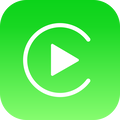
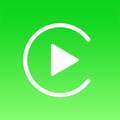
opt code

diff --git a/app/src/main/kotlin/com/carlink/util/IconAssets.kt b/app/src/main/kotlin/com/carlink/util/IconAssets.kt
@@ -3,6 +3,10 @@ package com.carlink.util
 import android.content.Context
 import android.graphics.Bitmap
 import android.graphics.BitmapFactory
+import android.graphics.Canvas
+import android.graphics.LinearGradient
+import android.graphics.Paint
+import android.graphics.Shader
 import androidx.core.graphics.scale
 import com.carlink.logging.logWarn
 import java.io.ByteArrayOutputStream
@@ -36,6 +40,7 @@ object IconAssets {
     private const val ICON_120_ASSET = "ICON_120x120.png"
     private const val ICON_180_ASSET = "ICON_180x180.png"
     private const val ICON_256_ASSET = "ICON_256x256.png"
+    private const val MAX_DECODE_DIMENSION = 2048
 
     /**
      * Load icon data from the user's custom image or the bundled assets.
@@ -86,7 +91,25 @@ object IconAssets {
 
     /** Center-crops non-square uploads, then creates one square master for all adapter sizes. */
     private fun resizeCustomIcon(data: ByteArray): Bitmap? {
-        val decoded = BitmapFactory.decodeByteArray(data, 0, data.size) ?: return null
+        val bounds = BitmapFactory.Options().apply { inJustDecodeBounds = true }
+        BitmapFactory.decodeByteArray(data, 0, data.size, bounds)
+        if (bounds.outWidth <= 0 || bounds.outHeight <= 0) return null
+
+        // Decode large picker selections at a power-of-two sample. The final adapter master is
+        // only 256px, so retaining source dimensions above 2048px wastes memory and can trigger
+        // an OOM on AAOS devices with a constrained app heap.
+        var sampleSize = 1
+        val largestDimension = maxOf(bounds.outWidth, bounds.outHeight)
+        while (largestDimension / sampleSize > MAX_DECODE_DIMENSION) sampleSize *= 2
+        val decoded = BitmapFactory.decodeByteArray(
+            data,
+            0,
+            data.size,
+            BitmapFactory.Options().apply {
+                inSampleSize = sampleSize
+                inPreferredConfig = Bitmap.Config.ARGB_8888
+            },
+        ) ?: return null
         val side = minOf(decoded.width, decoded.height)
         if (side <= 0) {
             decoded.recycle()
@@ -103,9 +126,58 @@ object IconAssets {
                 side,
             ).also { decoded.recycle() }
         }
-        return cropped.scale(256, 256).also {
-            if (it !== cropped) cropped.recycle()
+        // Composite before resizing. Transparent pixels in PNGs often retain a white RGB
+        // matte even though their alpha is zero; resizing such a bitmap first can blend that
+        // matte into the rounded edge and produce a visible white halo on the car display.
+        val opaque = makeOpaque(cropped)
+        val scaled = opaque.scale(256, 256).also {
+            if (it !== opaque) opaque.recycle()
         }
+        return scaled
+    }
+
+    /**
+     * CarPlay composites transparent icon pixels against a white tile background. Fill the
+     * transparent area with a vertical gradient sampled from the source so rounded-corner
+     * artwork remains full-bleed while retaining its original visual palette.
+     */
+    private fun makeOpaque(bitmap: Bitmap): Bitmap {
+        val output = Bitmap.createBitmap(bitmap.width, bitmap.height, Bitmap.Config.ARGB_8888)
+        output.setHasAlpha(false)
+        val canvas = Canvas(output)
+        val topColor = sampleOpaqueColor(bitmap, fromTop = true)
+        val bottomColor = sampleOpaqueColor(bitmap, fromTop = false)
+        val backgroundPaint = Paint(Paint.ANTI_ALIAS_FLAG).apply {
+            shader = LinearGradient(
+                0f,
+                0f,
+                0f,
+                bitmap.height.toFloat(),
+                topColor,
+                bottomColor,
+                Shader.TileMode.CLAMP,
+            )
+        }
+        canvas.drawRect(0f, 0f, bitmap.width.toFloat(), bitmap.height.toFloat(), backgroundPaint)
+        canvas.drawBitmap(bitmap, 0f, 0f, Paint(Paint.ANTI_ALIAS_FLAG or Paint.FILTER_BITMAP_FLAG))
+        bitmap.recycle()
+        return output
+    }
+
+    private fun sampleOpaqueColor(bitmap: Bitmap, fromTop: Boolean): Int {
+        val yRange = if (fromTop) 0 until bitmap.height else (bitmap.height - 1 downTo 0)
+        val centerX = bitmap.width / 2
+        for (y in yRange) {
+            for (distance in 0..centerX) {
+                val left = (centerX - distance).coerceAtLeast(0)
+                val right = (centerX + distance).coerceAtMost(bitmap.width - 1)
+                val leftColor = bitmap.getPixel(left, y)
+                if (android.graphics.Color.alpha(leftColor) > 0) return leftColor or 0xFF000000.toInt()
+                val rightColor = bitmap.getPixel(right, y)
+                if (android.graphics.Color.alpha(rightColor) > 0) return rightColor or 0xFF000000.toInt()
+            }
+        }
+        return 0xFF202124.toInt()
     }
 
     private fun encodePng(master: Bitmap, size: Int): ByteArray {

diff --git a/app/src/main/kotlin/com/carlink/protocol/MessageSerializer.kt b/app/src/main/kotlin/com/carlink/protocol/MessageSerializer.kt
@@ -293,6 +293,39 @@ object MessageSerializer {
     }
 
     /**
+     * Select the icon source used by the adapter's CarPlay session.
+     *
+     * This is a dedicated 0x09 message, not a COMMAND(0x08) frame whose payload
+     * happens to contain command id 9. The firmware uses 1 for the visible OEM
+     * icon path and 3 for the hidden-icon configuration.
+     */
+    fun serializeLogoType(logoType: Int): ByteArray {
+        require(logoType in 0..3) { "logoType must be between 0 and 3" }
+        val payload =
+            ByteBuffer
+                .allocate(4)
+                .order(ByteOrder.LITTLE_ENDIAN)
+                .putInt(logoType)
+                .array()
+        return serializeWithPayload(MessageType.LOGO_TYPE, payload)
+    }
+
+    /** Serialize the adapter manufacturer/brand selection sent before logo files. */
+    fun serializeManufacturerInfo(
+        brandId: Int = 0,
+        variant: Int = 0,
+    ): ByteArray {
+        val payload =
+            ByteBuffer
+                .allocate(8)
+                .order(ByteOrder.LITTLE_ENDIAN)
+                .putInt(brandId)
+                .putInt(variant)
+                .array()
+        return serializeWithPayload(MessageType.MANUFACTURER_INFO, payload)
+    }
+
+    /**
      * Serialize a number to a file.
      */
     fun serializeNumber(
@@ -838,6 +871,10 @@ object MessageSerializer {
         messages: MutableList<ByteArray>,
         config: AdapterConfig,
     ) {
+        // The adapter keeps LogoType across sessions. Selecting the source explicitly is
+        // required; writing /etc/icon_* alone does not make CarPlay stop using /etc/car.png.
+        messages.add(serializeManufacturerInfo())
+        messages.add(serializeLogoType(if (config.oemIconVisible) 1 else 3))
         config.icon120Data?.let { messages.add(serializeFile(FileAddress.ICON_120.path, it)) }
         config.icon180Data?.let { messages.add(serializeFile(FileAddress.ICON_180.path, it)) }
         config.icon256Data?.let { messages.add(serializeFile(FileAddress.ICON_256.path, it)) }
@@ -864,6 +901,8 @@ object MessageSerializer {
         messages.add(serializeNumber(0, FileAddress.CHARGE_MODE))
 
         // Upload icons if provided
+        messages.add(serializeManufacturerInfo())
+        messages.add(serializeLogoType(if (config.oemIconVisible) 1 else 3))
         config.icon120Data?.let { messages.add(serializeFile(FileAddress.ICON_120.path, it)) }
         config.icon180Data?.let { messages.add(serializeFile(FileAddress.ICON_180.path, it)) }
         config.icon256Data?.let { messages.add(serializeFile(FileAddress.ICON_256.path, it)) }

diff --git a/app/src/main/kotlin/com/carlink/util/CustomHomeIconStore.kt b/app/src/main/kotlin/com/carlink/util/CustomHomeIconStore.kt
@@ -14,7 +14,10 @@ object CustomHomeIconStore {
     private const val ENABLED_KEY = "enabled"
     private const val FILE_NAME = "custom_home_icon.png"
     private const val MAX_BYTES = 4 * 1024 * 1024
-    private const val MAX_DIMENSION = 4096
+    // Large source artwork is downsampled before decoding by IconAssets, so accepting up to
+    // 8192px lets the document picker handle high-resolution square icons without allocating
+    // an unnecessarily large bitmap on the device.
+    private const val MAX_DIMENSION = 8192
 
     private fun iconFile(context: Context): File = File(context.applicationContext.filesDir, FILE_NAME)
 
